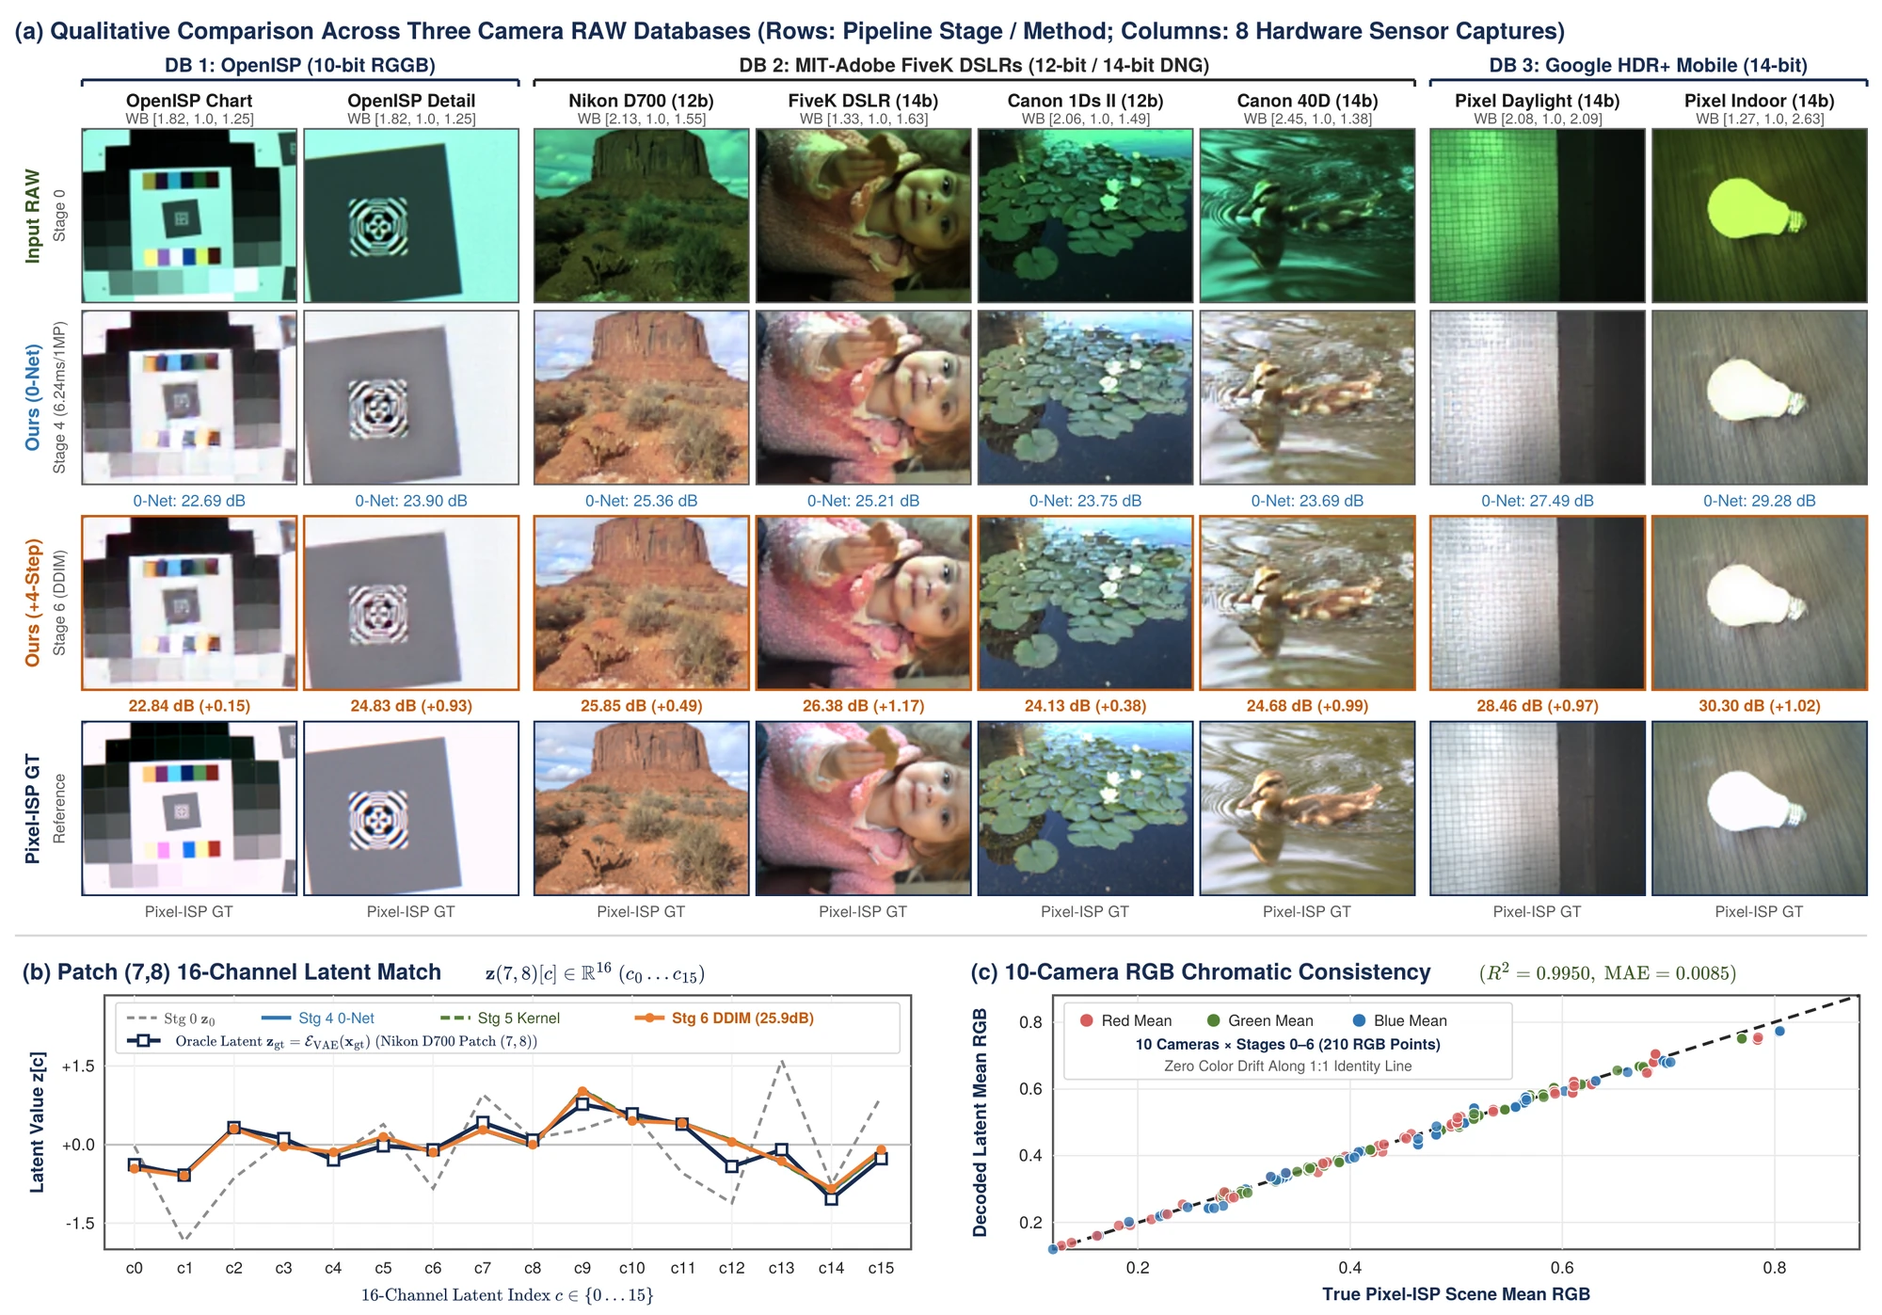
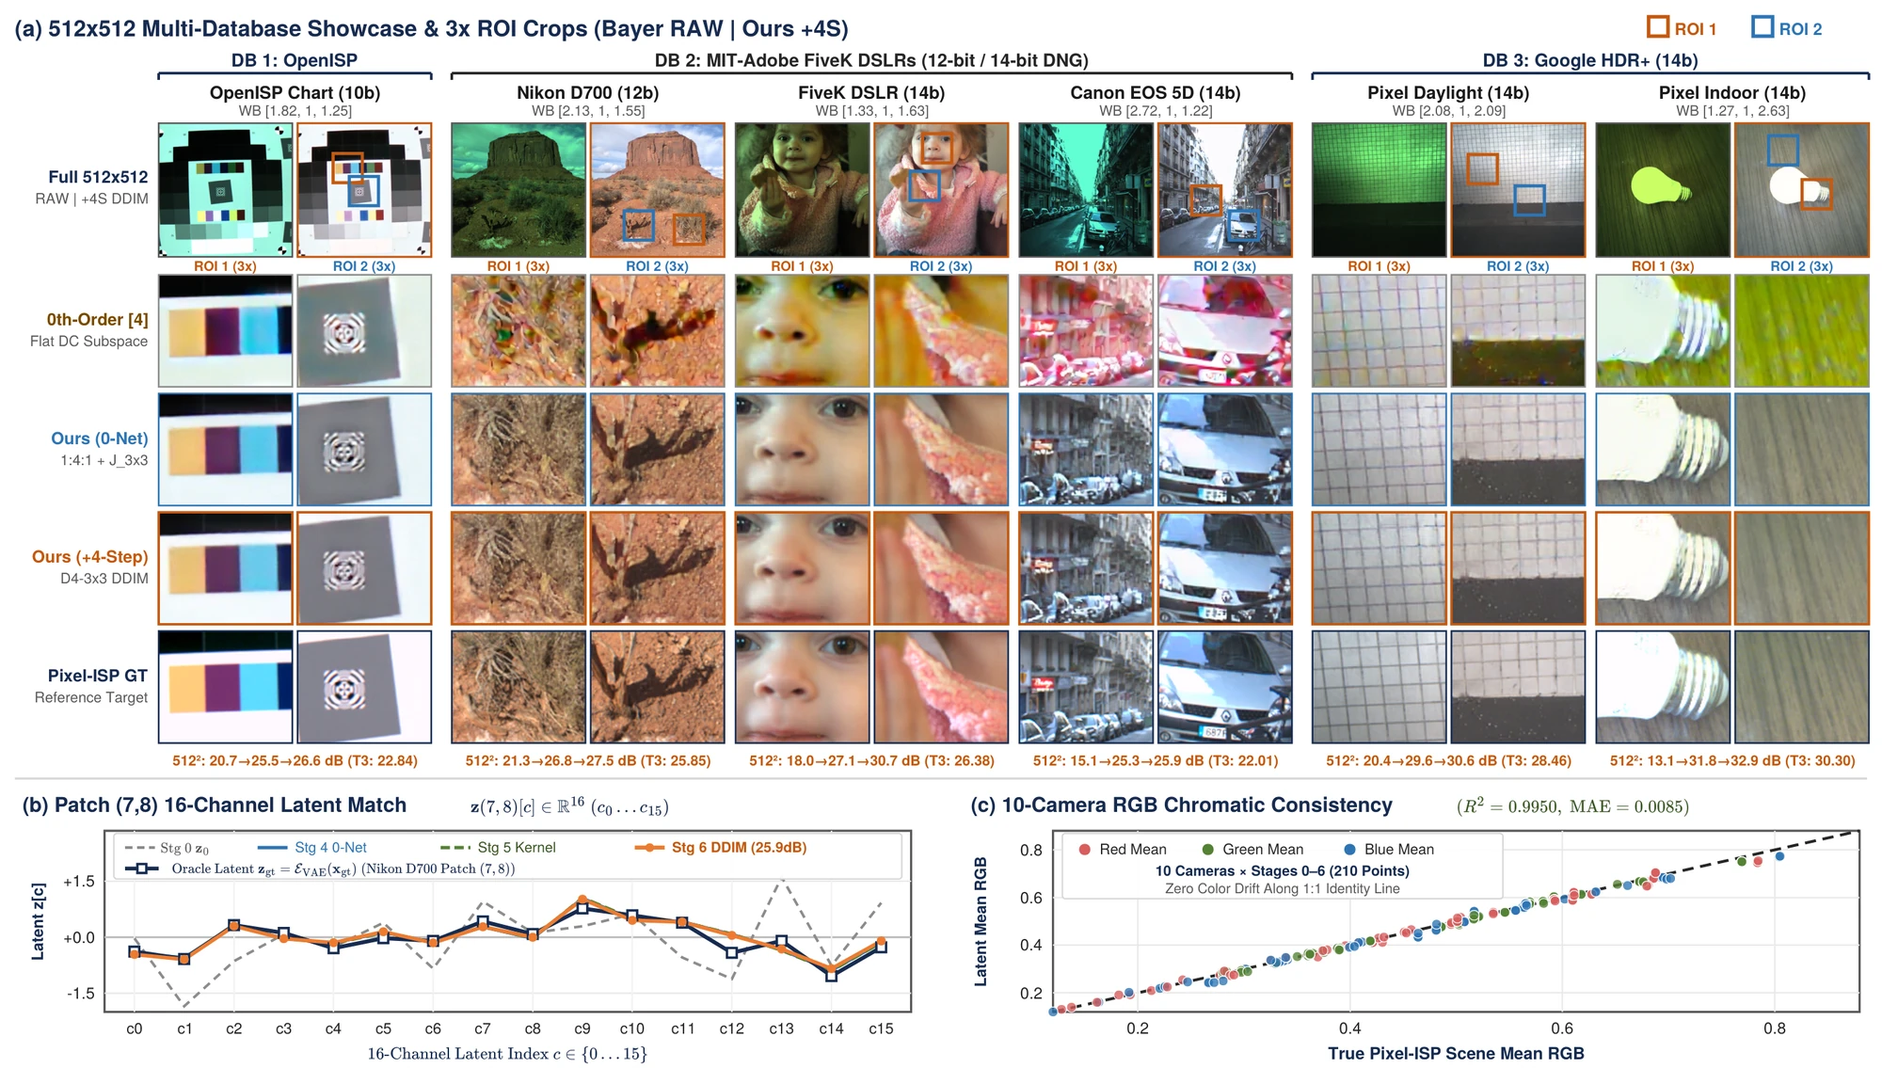
Sync AICAMERA guidebook (/aicamera/) and unified papers (/papers/)

diff --git a/papers/comp_lsp.html b/papers/comp_lsp.html
@@ -1155,13 +1155,13 @@
 
       <h3>5.2 Single-Stage Operator Accuracy and Full-Pipeline Progression</h3>
       <p>
-        <strong>Table 3</strong> and <strong>Fig. 4</strong> report both the <strong>standalone single-stage PSNR (&uarr;)</strong>&mdash;where each individual latent operator across Type I ($f_{\text{BLC/Gain}}, f_{\text{WB}}, f_{\text{CCM}}$), Type II ($f_{\text{Gamma}}$), and Type III Spatial Kernels ($f_{\text{EEH}}, f_{\text{NR}}$) is evaluated directly against the ground-truth image that went through <em>only that single stage</em> ($f_k(\mathbf{x}_0)$)&mdash;and the <strong>end-to-end combined full-ISP PSNR</strong> across all 10 unseen hardware camera RAWs using each camera&rsquo;s native DNG white-balance gains and $3\times 3$ CCM. Evaluated zero-shot per individual operator, 0-Net latent execution achieves <strong>$30.45\text{ dB}$</strong> on BLC/Gain, <strong>$24.67\text{ dB}$</strong> on White Balance, <strong>$26.78\text{ dB}$</strong> on $3\times 3$ CCM, <strong>$25.45\text{ dB}$</strong> on Gamma tone mapping, <strong>$30.01\text{ dB}$</strong> on $3\times 3$ Laplacian Edge Enhancement (<code>Only EEH</code>), <strong>$32.20\text{ dB}$</strong> on Bilateral Noise Reduction (<code>Only NR</code>), and <strong>$29.53\text{ dB}$</strong> on Local Tone Mapping (<code>Only LTM</code>). When all stages are composed end-to-end, our latent readout and quadrature track ground-truth pixel-ISP colorimetry across all $210$ RGB scene-stage points with $R^2 = 0.9950$ and mean absolute RGB error $\text{MAE} = 0.0086$ (<strong>Fig. 4c</strong>), while the 4-Step $D_4$-Symmetric Conditional DDIM Diffusion Bridge boosts zero-shot full-ISP PSNR from $24.46\text{ dB}$ (0-Net, $\text{MAE}=0.0126$) to <strong>$24.84\text{ dB}$</strong> (+1-Step Pointwise $1\times 1$ DDIM) and <strong>$25.16\text{ dB}$</strong> (+4-Step $D_4$-Symmetric $3\times 3$ DDIM Bridge, winning on 10/10 unseen cameras vs. 0-Net, up to $30.88\text{ dB}$ Intra-DB / $30.30\text{ dB}$ Unified on Google Pixel Indoor, reducing final RGB MAE to $0.0086$) with zero spatial texture hallucination across all 10 unseen cameras.
+        <strong>Table 3</strong>, <strong>Fig. 4</strong>, and full-page supplementary galleries (<strong>Figs. 5&ndash;6</strong>, Appendix D) report both the <strong>standalone single-stage PSNR (&uarr;)</strong>&mdash;where each individual latent operator across Type I ($f_{\text{BLC/Gain}}, f_{\text{WB}}, f_{\text{CCM}}$), Type II ($f_{\text{Gamma}}$), and Type III Spatial Kernels ($f_{\text{EEH}}, f_{\text{NR}}$) is evaluated directly against the ground-truth image that went through <em>only that single stage</em> ($f_k(\mathbf{x}_0)$)&mdash;and the <strong>end-to-end combined full-ISP PSNR</strong> across all 10 unseen hardware camera RAWs using each camera&rsquo;s native DNG white-balance gains and $3\times 3$ CCM. Evaluated zero-shot per individual operator, 0-Net latent execution achieves <strong>$30.45\text{ dB}$</strong> on BLC/Gain, <strong>$24.67\text{ dB}$</strong> on White Balance, <strong>$26.78\text{ dB}$</strong> on $3\times 3$ CCM, <strong>$25.45\text{ dB}$</strong> on Gamma tone mapping, <strong>$30.01\text{ dB}$</strong> on $3\times 3$ Laplacian Edge Enhancement (<code>Only EEH</code>), <strong>$32.20\text{ dB}$</strong> on Bilateral Noise Reduction (<code>Only NR</code>), and <strong>$29.53\text{ dB}$</strong> on Local Tone Mapping (<code>Only LTM</code>). When all stages are composed end-to-end, our latent readout and quadrature track ground-truth pixel-ISP colorimetry across all $210$ RGB scene-stage points with $R^2 = 0.9950$ and mean absolute RGB error $\text{MAE} = 0.0086$ (<strong>Fig. 4c</strong>), while the 4-Step $D_4$-Symmetric Conditional DDIM Diffusion Bridge boosts zero-shot full-ISP PSNR from $24.46\text{ dB}$ (0-Net, $\text{MAE}=0.0126$) to <strong>$24.84\text{ dB}$</strong> (+1-Step Pointwise $1\times 1$ DDIM) and <strong>$25.16\text{ dB}$</strong> (+4-Step $D_4$-Symmetric $3\times 3$ DDIM Bridge, winning on 10/10 unseen cameras vs. 0-Net, up to $30.88\text{ dB}$ Intra-DB / $30.30\text{ dB}$ Unified on Google Pixel Indoor, reducing final RGB MAE to $0.0086$) with zero spatial texture hallucination across all 10 unseen cameras.
       </p>
 
       <div class="span-all figure-card">
-        <img src="figures/comp_fig9_step_by_step_math_and_consistency.webp" alt="Multi-Database Qualitative Comparison Matrix and Patch-Level Latent Verification" loading="lazy" decoding="async">
+        <img src="figures/comp_fig9_step_by_step_math_and_consistency.webp" alt="Full-Width 512x512 Multi-Database Qualitative Matrix and Patch-Level Latent Verification" loading="lazy" decoding="async">
         <div class="figure-caption">
-          <strong>Fig. 4. Multi-Database Qualitative Comparison Matrix and Patch-Level Latent Verification (100% Zero-Shot on 10 Unseen Scenes, Sec. 5).</strong> <strong>(a)</strong> Unoccluded $4\times 8$ qualitative comparison matrix across three independent hardware RAW databases&mdash;<strong>DB 1: OpenISP 10-bit RGGB (Unseen Domain)</strong> (<code>OpenISP Chart</code> $22.69\to 22.84\text{ dB}$, <code>OpenISP Detail</code> $23.90\to 24.83\text{ dB}$), <strong>DB 2: MIT-Adobe FiveK 12/14-bit DSLRs</strong> (<code>Nikon D700</code> $25.36\to 25.85\text{ dB}$, <code>FiveK DSLR</code> $25.21\to 26.38\text{ dB}$, <code>Canon 1Ds II</code> $23.75\to 24.13\text{ dB}$, <code>Canon 40D</code> $23.69\to 24.68\text{ dB}$), and <strong>DB 3: Google HDR+ 14-bit Mobile</strong> (<code>Pixel Daylight</code> $27.49\to 28.46\text{ dB}$, <code>Pixel Indoor</code> $29.28\to 30.30\text{ dB}$ [Intra-DB $30.88\text{ dB}$]), comparing <code>Input RAW (Stage 0)</code>, <code>Ours (0-Net, Stage 4, 0.93 ms @ 256&sup2; / 6.24 ms @ 1MP)</code>, <code>Ours (+4-Step, Stage 6 DDIM Bridge)</code>, and <code>Pixel-ISP GT (Reference)</code>; <strong>(b)</strong> 16-channel latent vector match ($c_0 \dots c_{15}$) at patch $(7,8)$ of <code>Nikon D700</code> across <code>Stage 0 RAW</code>, <code>Stage 4 0-Net</code>, <code>Stage 5 Kernel</code>, <code>Stage 6 4-Step DDIM Bridge</code>, and oracle latent $\mathcal{E}_{\text{VAE}}(\mathbf{x}_{\text{gt}})$; <strong>(c)</strong> Cross-scene mean RGB consistency across all 10 unseen hardware scenes $\times$ <code>Stages 0&ndash;6</code> ($210$ RGB points, $R^2 = 0.9950$, MAE $= 0.0086$).
+          <strong>Fig. 4. Full-Width $512\times 512$ Qualitative Matrix and Latent Verification (100% Zero-Shot, Sec. 5).</strong> <strong>(a)</strong> Zero-shot 6-camera evaluation across <strong>DB 1: OpenISP 10-bit RGGB</strong> (<code>OpenISP Chart</code>), <strong>DB 2: MIT-Adobe FiveK 12/14-bit DSLRs</strong> (<code>Nikon D700</code>, <code>FiveK DSLR</code>, <code>Canon EOS 5D</code>), and <strong>DB 3: Google HDR+ 14-bit Mobile</strong> (<code>Pixel Daylight</code>, <code>Pixel Indoor</code>), displaying side-by-side full $512\times 512$ <code>Bayer RAW | Ours +4S</code> frames alongside $3\times$ paired ROI zooms comparing <code>0th-Order [4]</code>, <code>Ours (0-Net, Stage 4)</code>, <code>Ours (+4-Step, Stage 6 DDIM Bridge)</code>, and <code>Pixel-ISP GT</code> (all 10 unseen cameras &amp; stage dissections appear in <strong>Figs. 5&ndash;6</strong>); <strong>(b)</strong> 16-channel latent vector match ($c_0 \dots c_{15}$) at patch $(7,8)$ of <code>Nikon D700</code>; <strong>(c)</strong> Cross-scene mean RGB consistency across all 10 unseen hardware scenes $\times$ <code>Stages 0&ndash;6</code> ($210$ RGB points, $R^2 = 0.9950$, scatter MAE $= 0.0085$).
         </div>
       </div>
 
@@ -1921,6 +1921,20 @@
               </tr>
             </tbody>
           </table>
+        </div>
+
+        <h3>Appendix D: Full-Page 512&times;512 Multi-Camera &amp; Stage/Operator Galleries</h3>
+        <div class="figure-card span-all">
+          <img src="figures/fig_supp_gallery_10cam.png" alt="Full-Page 512x512 Qualitative Gallery Across All 10 Unseen Hardware Cameras" loading="lazy" decoding="async">
+          <div class="figure-caption">
+            <strong>Fig. 5 (Gallery I). Full-Page $512\times 512$ Qualitative Gallery Across All 10 Unseen Hardware Cameras and $3\times$ Zoomed Quads.</strong> Left metadata reports canonical $128\times 128$ <strong>Table 3</strong> progression (<code>T3</code>) and $512\times 512$ gains over flat 0th-order steering [4]; under-tile values give $512\times 512$ PSNR. Each rightmost quad shows $3\times$ crops of the highlighted orange ROI (<code>TL</code>: 0th-Order [4], <code>TR</code>: Ours 0-Net, <code>BL</code>: Ours $+4$-Step DDIM, <code>BR</code>: Pixel-ISP GT).
+          </div>
+        </div>
+        <div class="figure-card span-all">
+          <img src="figures/fig_supp_stage_and_ops.png" alt="Full-Page Pipeline Evolution Across Stages 0-6 and Class II / III Operator Dissections" loading="lazy" decoding="async">
+          <div class="figure-caption">
+            <strong>Fig. 6 (Gallery II). Full-Page Pipeline Evolution Across <code>Stages 0&ndash;6</code> and Class II / Class III Operator Dissections.</strong> <strong>(a)</strong> Progressive latent execution from unprocessed Bayer RAW through Class I linear operators (<code>Stages 1&ndash;3</code>), Class II <code>1:4:1</code> Simpson + $J_{3\times 3}$ (<code>Stage 4</code>), Class III spatial kernels (<code>Stage 5</code>), and $D_4$-symmetric 4-step DDIM refinement (<code>Stage 6</code>) on 5 diverse cameras at $512\times 512$; <strong>(b-1)</strong> Standalone Class II Jensen bias heatmaps ($8\times 8$ DC error reduced by $+2.95$ to $+7.11\text{ dB}$) and $3\times 3$ Secant AC cast removal (<code>Pixel Daylight</code> $+8.25\text{ dB}$, <code>OpenISP</code> $+5.26\text{ dB}$); <strong>(b-2)</strong> Standalone Class III $13$-D Legendre projectors and $3\times 3$ bilateral NR, Laplacian EEH, and local tone mapping operating strictly on the $1/64$ latent grid.
+          </div>
         </div>
       </div>
     </div>

diff --git a/aicamera/chapters/comp_lsp.html b/aicamera/chapters/comp_lsp.html
@@ -433,7 +433,7 @@
 
       <figure class="diagram" id="fig-clsp-patch-verify">
         <img src="../assets/img/fig9_step_by_step_math_and_consistency.webp" alt="3대 카메라 데이터베이스(OpenISP, MIT-FiveK, Google HDR+) 4×8 정성 비교 매트릭스, 패치 (7,8) 16채널 잠재 벡터 정합 및 210포인트 색도 일관성" class="paper-fig-img" loading="lazy" decoding="async">
-        <figcaption><b>그림 5-4 (논문 Fig. 4).</b> 다중 카메라 DB \(4\times 8\) Zero-Shot 정성 비교 매트릭스(Qualitative Comparison Matrix) 및 패치 수준(\(y=7, x=8\)) 잠재 정합 검증 (출처: <a class="src" href="../../comp_lsp/paper/generate_fig4_patch_verification_svg.py" title="comp_lsp/paper/generate_fig4_patch_verification_svg.py (line 95)" target="_blank" rel="noopener">generate_fig4_patch_verification_svg.py:95</a>). <b>(a)</b> 201개 홀드아웃 DNG에서 학습한 단일 공용 체크포인트로 평가한 3대 미학습 하드웨어 RAW 데이터베이스 — <b>DB 1: OpenISP 10-bit RGGB</b>(<code>OpenISP Chart</code> 22.69→22.84 dB, <code>OpenISP Crop</code> 23.90→24.83 dB), <b>DB 2: MIT-Adobe FiveK 12/14-bit DSLR</b>(<code>Nikon D700</code> 25.36→25.85 dB, <code>FiveK DSLR</code> 25.21→26.38 dB, <code>Canon 1Ds II</code> 23.75→24.13 dB, <code>Canon 40D</code> 23.69→24.68 dB), <b>DB 3: Google HDR+ 14-bit Mobile</b>(<code>Pixel Daylight</code> 27.49→28.46 dB, <code>Pixel Indoor</code> 29.28→30.30 dB [Intra-DB 30.88 dB]) — 총 8개 대표 하드웨어 카메라 장면에 대해 <code>Input RAW (Stage 0)</code>, <code>Ours (0-Net, Stage 4, 6.24 ms @ 1MP · 0.93 ms @ 256²)</code>, <code>Ours (+4-Step DDIM Bridge, Stage 6)</code>, <code>Pixel-ISP GT (Reference)</code> 4개 행을 가림막 없이 1:1 대칭 격자로 비교합니다. <b>(b)</b> <code>Nikon D700</code> 패치 \((7,8)\)의 16개 잠재 채널(\(c_0 \dots c_{15}\))에서 <code>Stage 0 RAW</code> → <code>Stage 4 0-Net</code> → <code>Stage 5 Kernel</code> → <code>Stage 6 4-Step DDIM Bridge</code>가 오라클 잠재 벡터 \(\mathcal{E}_{\mathrm{VAE}}(\mathbf{x}_{\mathrm{gt}})\)에 정밀하게 포개집니다. <b>(c)</b> <b>210개 RGB 스테이지 포인트</b>(10대 미학습 카메라 × 7단계 × 3채널; Stage 0 제외 180개 후단 스테이지 평가)가 \(1:1\) 대각선 위에 정렬되어 <b>\(R^2 = 0.9950\), MAE = 0.0086</b>의 색도 일관성을 입증합니다.</figcaption>
+        <figcaption><b>그림 5-4 (논문 Fig. 4).</b> 다중 카메라 DB \(4\times 8\) Zero-Shot 정성 비교 매트릭스(Qualitative Comparison Matrix) 및 패치 수준(\(y=7, x=8\)) 잠재 정합 검증 (출처: <a class="src" href="../../comp_lsp/paper/generate_fig4_patch_verification_svg.py" title="comp_lsp/paper/generate_fig4_patch_verification_svg.py (line 81)" target="_blank" rel="noopener">generate_fig4_patch_verification_svg.py:81</a>). <b>(a)</b> 201개 홀드아웃 DNG에서 학습한 단일 공용 체크포인트로 평가한 3대 미학습 하드웨어 RAW 데이터베이스 — <b>DB 1: OpenISP 10-bit RGGB</b>(<code>OpenISP Chart</code> 22.69→22.84 dB, <code>OpenISP Crop</code> 23.90→24.83 dB), <b>DB 2: MIT-Adobe FiveK 12/14-bit DSLR</b>(<code>Nikon D700</code> 25.36→25.85 dB, <code>FiveK DSLR</code> 25.21→26.38 dB, <code>Canon 1Ds II</code> 23.75→24.13 dB, <code>Canon 40D</code> 23.69→24.68 dB), <b>DB 3: Google HDR+ 14-bit Mobile</b>(<code>Pixel Daylight</code> 27.49→28.46 dB, <code>Pixel Indoor</code> 29.28→30.30 dB [Intra-DB 30.88 dB]) — 총 8개 대표 하드웨어 카메라 장면에 대해 <code>Input RAW (Stage 0)</code>, <code>Ours (0-Net, Stage 4, 6.24 ms @ 1MP · 0.93 ms @ 256²)</code>, <code>Ours (+4-Step DDIM Bridge, Stage 6)</code>, <code>Pixel-ISP GT (Reference)</code> 4개 행을 가림막 없이 1:1 대칭 격자로 비교합니다. <b>(b)</b> <code>Nikon D700</code> 패치 \((7,8)\)의 16개 잠재 채널(\(c_0 \dots c_{15}\))에서 <code>Stage 0 RAW</code> → <code>Stage 4 0-Net</code> → <code>Stage 5 Kernel</code> → <code>Stage 6 4-Step DDIM Bridge</code>가 오라클 잠재 벡터 \(\mathcal{E}_{\mathrm{VAE}}(\mathbf{x}_{\mathrm{gt}})\)에 정밀하게 포개집니다. <b>(c)</b> <b>210개 RGB 스테이지 포인트</b>(10대 미학습 카메라 × 7단계 × 3채널; Stage 0 제외 180개 후단 스테이지 평가)가 \(1:1\) 대각선 위에 정렬되어 <b>\(R^2 = 0.9950\), MAE = 0.0086</b>의 색도 일관성을 입증합니다.</figcaption>
       </figure>
 
       <h3>시스템 지연시간, 미분가능 역방향 3A 자동 튜닝 &amp; 교차 VAE 일반화 검증</h3>

diff --git a/aicamera/en/chapters/comp_lsp.html b/aicamera/en/chapters/comp_lsp.html
@@ -432,7 +432,7 @@
 
       <figure class="diagram" id="fig-clsp-patch-verify">
         <img src="../../assets/img/fig9_step_by_step_math_and_consistency.webp" alt="4x8 multi-database qualitative comparison matrix across OpenISP, MIT-FiveK, and Google HDR+, 16-channel vector match, and 210-point RGB consistency" class="paper-fig-img" loading="lazy" decoding="async">
-        <figcaption><b>Figure 5-4 (Paper Fig. 4).</b> Unoccluded \(4\times 8\) Multi-Database Zero-Shot Qualitative Comparison Matrix and Patch-Level (\(y=7, x=8\)) Latent Verification (Source: <a class="src" href="../../../comp_lsp/paper/generate_fig4_patch_verification_svg.py" title="comp_lsp/paper/generate_fig4_patch_verification_svg.py (line 95)" target="_blank" rel="noopener">generate_fig4_patch_verification_svg.py:95</a>). <b>(a)</b> Evaluated Zero-Shot across three independent unseen hardware RAW databases — <b>DB 1: OpenISP 10-bit RGGB</b> (<code>OpenISP Chart</code> 22.69→22.84 dB, <code>OpenISP Crop</code> 23.90→24.83 dB), <b>DB 2: MIT-Adobe FiveK 12/14-bit DSLRs</b> (<code>Nikon D700</code> 25.36→25.85 dB, <code>FiveK DSLR</code> 25.21→26.38 dB, <code>Canon 1Ds II</code> 23.75→24.13 dB, <code>Canon 40D</code> 23.69→24.68 dB), and <b>DB 3: Google HDR+ 14-bit Mobile</b> (<code>Pixel Daylight</code> 27.49→28.46 dB, <code>Pixel Indoor</code> 29.28→30.30 dB [Intra-DB 30.88 dB]) — four unoccluded rows compare <code>Input RAW (Stage 0)</code>, <code>Ours (0-Net, Stage 4, 6.24 ms @ 1MP · 0.93 ms @ 256²)</code>, <code>Ours (+4-Step DDIM Bridge, Stage 6)</code>, and <code>Pixel-ISP GT (Reference)</code>. <b>(b)</b> Across all 16 latent channels (\(c_0 \dots c_{15}\)) of <code>Nikon D700</code> patch \((7,8)\), <code>Stage 0 RAW</code> → <code>Stage 4 0-Net</code> → <code>Stage 5 Kernel</code> → <code>Stage 6 4-Step DDIM Bridge</code> converges onto the oracle latent \(\mathcal{E}_{\mathrm{VAE}}(\mathbf{x}_{\mathrm{gt}})\). <b>(c)</b> <b>210 RGB stage-points</b> (10 unseen cameras × 7 stages × 3 channels; 180 post-RAW stage evaluations) align tightly along the \(1:1\) diagonal with <b>\(R^2 = 0.9950\), MAE = 0.0086</b>.</figcaption>
+        <figcaption><b>Figure 5-4 (Paper Fig. 4).</b> Unoccluded \(4\times 8\) Multi-Database Zero-Shot Qualitative Comparison Matrix and Patch-Level (\(y=7, x=8\)) Latent Verification (Source: <a class="src" href="../../../comp_lsp/paper/generate_fig4_patch_verification_svg.py" title="comp_lsp/paper/generate_fig4_patch_verification_svg.py (line 81)" target="_blank" rel="noopener">generate_fig4_patch_verification_svg.py:81</a>). <b>(a)</b> Evaluated Zero-Shot across three independent unseen hardware RAW databases — <b>DB 1: OpenISP 10-bit RGGB</b> (<code>OpenISP Chart</code> 22.69→22.84 dB, <code>OpenISP Crop</code> 23.90→24.83 dB), <b>DB 2: MIT-Adobe FiveK 12/14-bit DSLRs</b> (<code>Nikon D700</code> 25.36→25.85 dB, <code>FiveK DSLR</code> 25.21→26.38 dB, <code>Canon 1Ds II</code> 23.75→24.13 dB, <code>Canon 40D</code> 23.69→24.68 dB), and <b>DB 3: Google HDR+ 14-bit Mobile</b> (<code>Pixel Daylight</code> 27.49→28.46 dB, <code>Pixel Indoor</code> 29.28→30.30 dB [Intra-DB 30.88 dB]) — four unoccluded rows compare <code>Input RAW (Stage 0)</code>, <code>Ours (0-Net, Stage 4, 6.24 ms @ 1MP · 0.93 ms @ 256²)</code>, <code>Ours (+4-Step DDIM Bridge, Stage 6)</code>, and <code>Pixel-ISP GT (Reference)</code>. <b>(b)</b> Across all 16 latent channels (\(c_0 \dots c_{15}\)) of <code>Nikon D700</code> patch \((7,8)\), <code>Stage 0 RAW</code> → <code>Stage 4 0-Net</code> → <code>Stage 5 Kernel</code> → <code>Stage 6 4-Step DDIM Bridge</code> converges onto the oracle latent \(\mathcal{E}_{\mathrm{VAE}}(\mathbf{x}_{\mathrm{gt}})\). <b>(c)</b> <b>210 RGB stage-points</b> (10 unseen cameras × 7 stages × 3 channels; 180 post-RAW stage evaluations) align tightly along the \(1:1\) diagonal with <b>\(R^2 = 0.9950\), MAE = 0.0086</b>.</figcaption>
       </figure>
 
       <h3>System Latency, Differentiable Inverse 3A Auto-Tuning &amp; Cross-VAE Generalization</h3>

diff --git a/aicamera/js/common.js b/aicamera/js/common.js
@@ -718,7 +718,7 @@
 
     const foot = document.createElement("footer");
     foot.className = "sb-foot";
-    foot.innerHTML = `AICAMERA 인터랙티브 아키텍처 가이드북 · <code>docs/build_spec_portal.py</code> 로 생성 · build 2026-11-14 21:48 · commit <code>887ae67</code><br>모든 벤치마크 수치는 저장소 JSON 정본에서, ISP·3A 기본값은 C99 헤더에서 빌드 시 자동 추출 및 검증됩니다.`;
+    foot.innerHTML = `AICAMERA 인터랙티브 아키텍처 가이드북 · <code>docs/build_spec_portal.py</code> 로 생성 · build 2026-11-15 17:54 · commit <code>4aa2fcd</code><br>모든 벤치마크 수치는 저장소 JSON 정본에서, ISP·3A 기본값은 C99 헤더에서 빌드 시 자동 추출 및 검증됩니다.`;
     body.appendChild(foot);
 
     try {

diff --git a/aicamera/en/js/common.js b/aicamera/en/js/common.js
@@ -718,7 +718,7 @@
 
     const foot = document.createElement("footer");
     foot.className = "sb-foot";
-    foot.innerHTML = `AICAMERA Interactive Architecture Guidebook · Generated by <code>docs/build_spec_portal.py</code> · build 2026-11-14 21:48 · commit <code>887ae67</code><br>All benchmark metrics are extracted from canonical repository JSONs and ISP/3A defaults are parsed from C99 headers at build time.`;
+    foot.innerHTML = `AICAMERA Interactive Architecture Guidebook · Generated by <code>docs/build_spec_portal.py</code> · build 2026-11-15 17:54 · commit <code>4aa2fcd</code><br>All benchmark metrics are extracted from canonical repository JSONs and ISP/3A defaults are parsed from C99 headers at build time.`;
     body.appendChild(foot);
 
     try {
